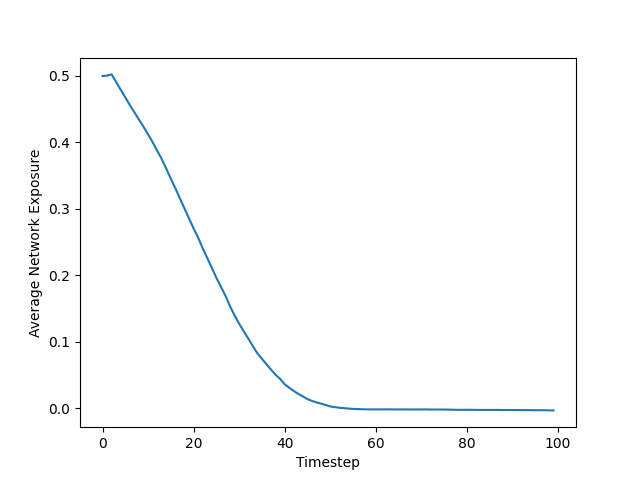
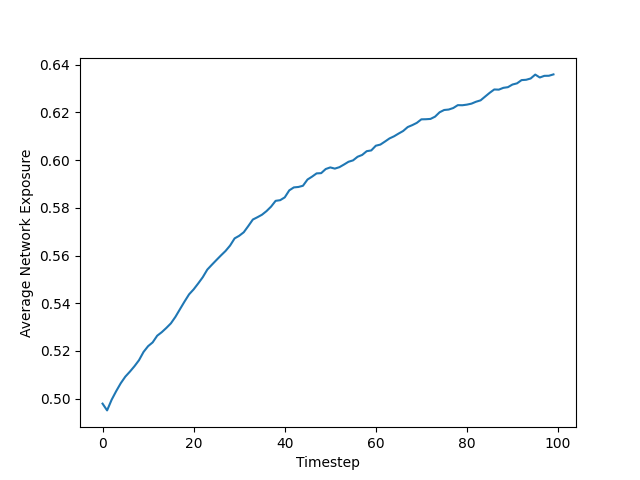
fixing heuristic score and adding blue budget

diff --git a/src/heuristic_test.py b/src/heuristic_test.py
@@ -84,43 +84,50 @@ gamma = 1
 alpha = 1
 #budget_red = 10000
 
-budget_blue = 50
 
-for i in range(time_steps):
-    update_super(graph)
-    pull_ball(graph, delta_blue, delta_red)
-    suscept_score = {}
-    for node in graph.nodes():
-        node_idx = node_to_index[node]
-        score = calc_susceptibility(graph, node, 'red', 'total')
-        suscept_score[node_idx] = score
-    #susceptibility_score[i] = all_score 
-    
-    # calculating heuristic scores 
-
-    all_scores[i] = {}
-    for node in graph.nodes():
-        node_idx = node_to_index[node]
-        degree_score = deg_score[node_idx] 
-        centrality_score = central_score[node_idx]  
-        susceptibility_score = suscept_score[node_idx]
+with open('nodes_midpoint.txt', 'w') as f:
+    for i in range(time_steps):
+        update_super(graph)
+        pull_ball(graph, delta_blue, delta_red)
+        suscept_score = {}
+        for node in graph.nodes():
+            node_idx = node_to_index[node]
+            score = calc_susceptibility(graph, node, 'red', 'total')
+            suscept_score[node_idx] = score
+        #susceptibility_score[i] = all_score 
         
-        # Calculate the combined score using the formula from the screenshot
-        combined = beta * degree_score + gamma * centrality_score - alpha * susceptibility_score
-        all_scores[i][node_idx] = combined
+        # calculating heuristic scores 
 
-        nodes_midpoint = score_midpoint(all_scores[i])
+        all_scores[i] = {}
+        for node in graph.nodes():
+            node_idx = node_to_index[node]
+            degree_score = deg_score[node_idx] 
+            centrality_score = central_score[node_idx]  
+            susceptibility_score = suscept_score[node_idx]
+            
+            # Calculate the combined score using the formula from the screenshot
+            combined = beta * degree_score + gamma * centrality_score - alpha * susceptibility_score
+            all_scores[i][node_idx] = combined
 
-    budget_red = 500
-    delta_red = 1
-    for node_idx in nodes_midpoint:
-        if budget_red > 0:
-            graph.nodes[node_idx]['red'] += delta_red
-            graph.nodes[node_idx]['total'] += delta_red
-            budget_red -= delta_red 
-        else:
-            break 
-    
+            nodes_midpoint = score_midpoint(all_scores[i])
+
+            if nodes_midpoint:
+                f.write(f"Timestep {i}: {', '.join(map(str, nodes_midpoint))}\n")
+            else:
+                f.write(f"Timestep {i}: No nodes in nodes_midpoint\n")
+
+        budget_red = 500
+        delta_red = 1
+        for node_idx in nodes_midpoint:
+            if budget_red > 0:
+                graph.nodes[node_idx]['red'] += delta_red
+                graph.nodes[node_idx]['total'] += delta_red
+                budget_red -= delta_red 
+            else:
+                break 
+
+    budget_blue = 500
+
     delta_blue = budget_blue/num_nodes
     for node in graph.nodes(): 
         graph.nodes[node_idx]['blue'] += delta_blue

diff --git a/src/heuristic_functions.py b/src/heuristic_functions.py
@@ -45,13 +45,13 @@ def calc_centrality(graph, node):
 def score_midpoint(scores):
     # want averagge and max score 
     average_score = sum(scores.values()) / len(scores)
-    max_score = max(scores.values())
+    #max_score = max(scores.values())
     
     # midpoint between the averagge heuristic score and max 
-    midpoint = (average_score + max_score) / 2
+    #midpoint = (average_score + max_score) / 2
     
     # nodes above the midpoint
-    nodes_above_midpoint = [node for node, score in scores.items() if score > midpoint]
+    nodes_above_midpoint = [node for node, score in scores.items() if score > average_score]
     
     return nodes_above_midpoint
 
